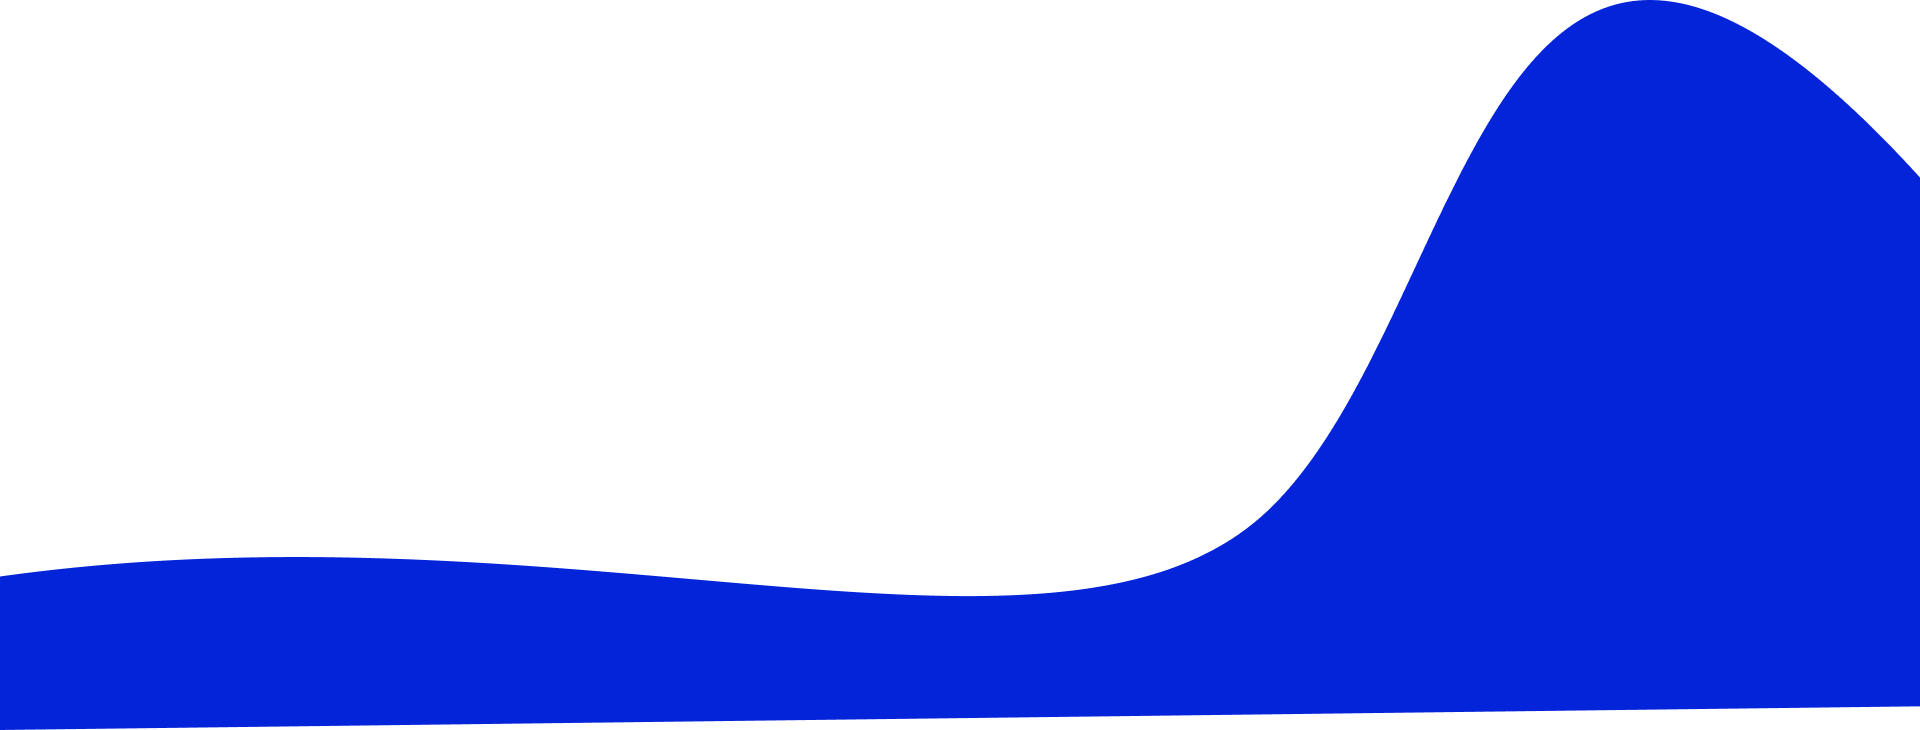
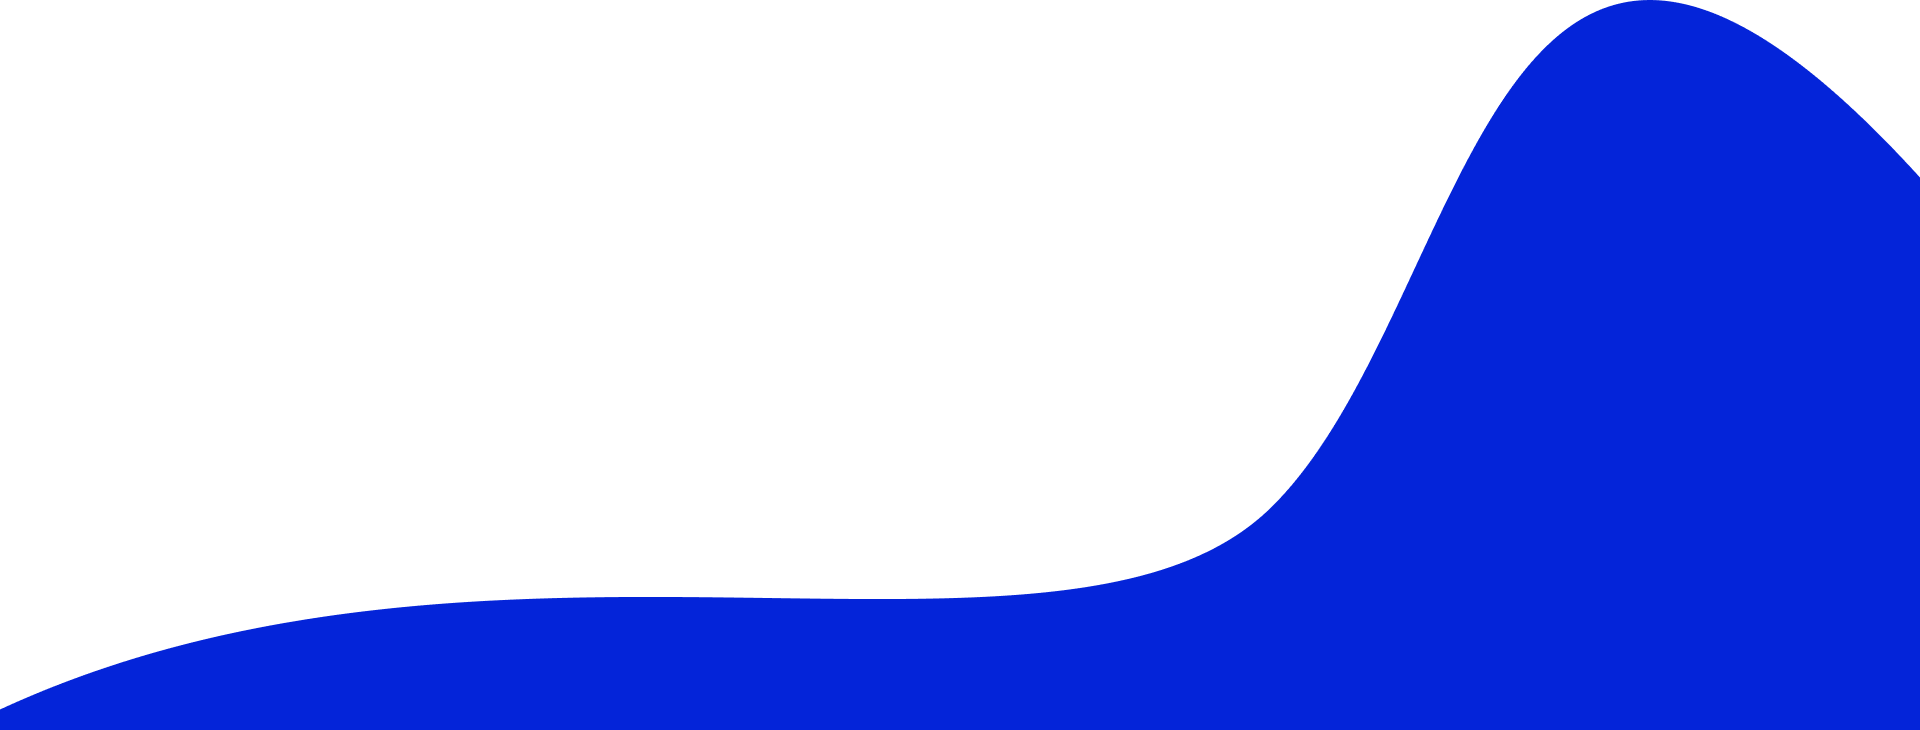
basic gui done

Changed region(s): [[0.0, 0.9644, 1.0, 1.0], [0.0, 0.7534, 0.5, 0.9644], [0.5625, 0.7836, 0.5938, 0.8137]]

diff --git a/src/main/resources/css/stylesheet.css b/src/main/resources/css/stylesheet.css
@@ -34,6 +34,8 @@ som finns på olika ställen. Detta är för att man lätt ska kunna justera mar
 
 *{
     /*https://99designs.com/logo-design/psychology-of-color*/
+    -fx-font-smoothing-type: gray;
+
 
     -fx-main1:#0329FA;
     -fx-main2:#FEFE06;
@@ -155,24 +157,28 @@ som finns på olika ställen. Detta är för att man lätt ska kunna justera mar
 /*FONTSTORLEKAR*/
 
 .p1{
-    -fx-font-size: 100pt;
+    -fx-font-smoothing-type: gray;
+    -fx-font-size: 62pt;
 }
 
 .p2{
+    -fx-font-smoothing-type: gray;
     -fx-font-size: 28pt;
 }
 
 .p3{
+    -fx-font-smoothing-type: gray;
     -fx-font-size: 20pt;
 }
 .p4{
-    -fx-font-size: 10pt;
+    -fx-font-smoothing-type: gray;
+    -fx-font-size: 14pt;
 }
 
 .h1{
     /*Only applied here for performance reasons*/
     -fx-font-smoothing-type: gray;
-    -fx-font-size: 72pt;
+    -fx-font-size: 62pt;
     -fx-font-weight: bold;
 }
 .h2{
@@ -188,7 +194,7 @@ som finns på olika ställen. Detta är för att man lätt ska kunna justera mar
 }
 .h4{
     -fx-font-smoothing-type: gray;
-    -fx-font-size: 10pt;
+    -fx-font-size: 14pt;
     -fx-font-weight: bold;
 }
 
@@ -207,24 +213,29 @@ som finns på olika ställen. Detta är för att man lätt ska kunna justera mar
     -fx-background-radius: 4;
 
 }
-.roundedButton {
-    -fx-effect: dropshadow(two-pass-box, darkgray, 10, 0.0, 4, 5);
-    -fx-background-color: white;
-    -fx-background-radius: 15 15 15 15;
-    -fx-background-insets: 2 2 2 2;
+.ghostButton:hover{
+    -fx-background-color: -fx-main2;
+    -fx-text-fill:-fx-darkColoredText;
 }
+/*.roundedButton {*/
+    /*-fx-effect: dropshadow(two-pass-box, darkgray, 10, 0.0, 4, 5);*/
+    /*-fx-background-color: white;*/
+    /*-fx-background-radius: 15 15 15 15;*/
+    /*-fx-background-insets: 2 2 2 2;*/
+/*}*/
 
 .mountain{
-    -fx-background-size: stretch;
-    -fx-background-position: bottom;
+    -fx-background-position: right bottom;
+    -fx-background-repeat: no-repeat;
     -fx-background-image:url("../images/Mountainmountain.png");
+    -fx-background-size: auto;
 
 }
 .foreground{
-    -fx-background-size: stretch;
-    -fx-background-position: bottom;
-
+    -fx-background-position: right;
     -fx-background-image:url("../images/Foreground.png");
+    -fx-background-size: stretch;
+
 }
 /*
 EXEMPEL PÅ BYTA IKON VID HOVER
@@ -239,3 +250,57 @@ EXEMPEL PÅ BYTA IKON VID HOVER
 
 }
 */
+
+
+/*Copied css*/
+.scroll-bar:horizontal .track,
+.scroll-bar:vertical .track{
+    -fx-background-color :-fx-main1-darker;
+    -fx-border-color :-fx-main1-darker;
+    -fx-background-radius : 0.0em;
+    -fx-border-radius :2.0em;
+}
+
+
+.scroll-bar:horizontal .increment-button ,
+.scroll-bar:horizontal .decrement-button {
+    -fx-background-color :-fx-main1-darker;
+    -fx-background-radius : 0.0em;
+    -fx-padding :0.0 0.0 10.0 0.0;
+
+}
+
+.scroll-bar:vertical .increment-button ,
+.scroll-bar:vertical .decrement-button {
+    -fx-background-color :-fx-main1-darker;
+    -fx-background-radius : 0.0em;
+    -fx-padding :0.0 10.0 0.0 0.0;
+
+}
+
+.scroll-bar .increment-arrow,
+.scroll-bar .decrement-arrow{
+    -fx-shape : " ";
+    -fx-padding :0.15em 0.0;
+}
+
+.scroll-bar:vertical .increment-arrow,
+.scroll-bar:vertical .decrement-arrow{
+    -fx-shape : " ";
+    -fx-padding :0.0 0.15em;
+}
+
+.scroll-bar:horizontal .thumb,
+.scroll-bar:vertical .thumb {
+    -fx-cursor: hand;
+    -fx-background-color :derive(-fx-main1,90.0%);
+    -fx-background-insets : 2.0, 0.0, 0.0;
+    -fx-background-radius : 2.0em;
+}
+
+.scroll-bar:horizontal .thumb:hover,
+.scroll-bar:vertical .thumb:hover {
+    -fx-background-color :derive(-fx-white,10.0%);
+    -fx-background-insets : 2.0, 0.0, 0.0;
+    -fx-background-radius : 2.0em;
+}
